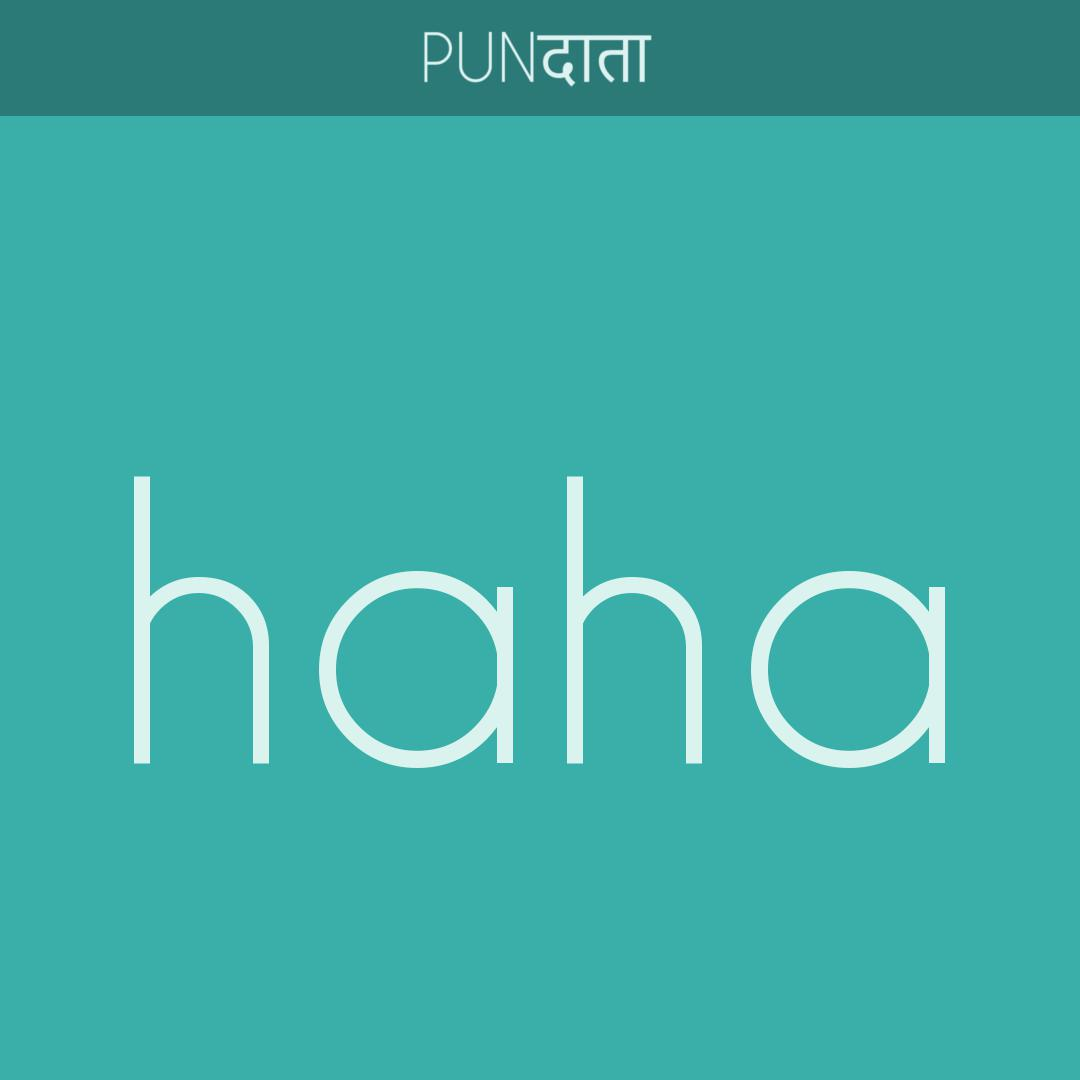
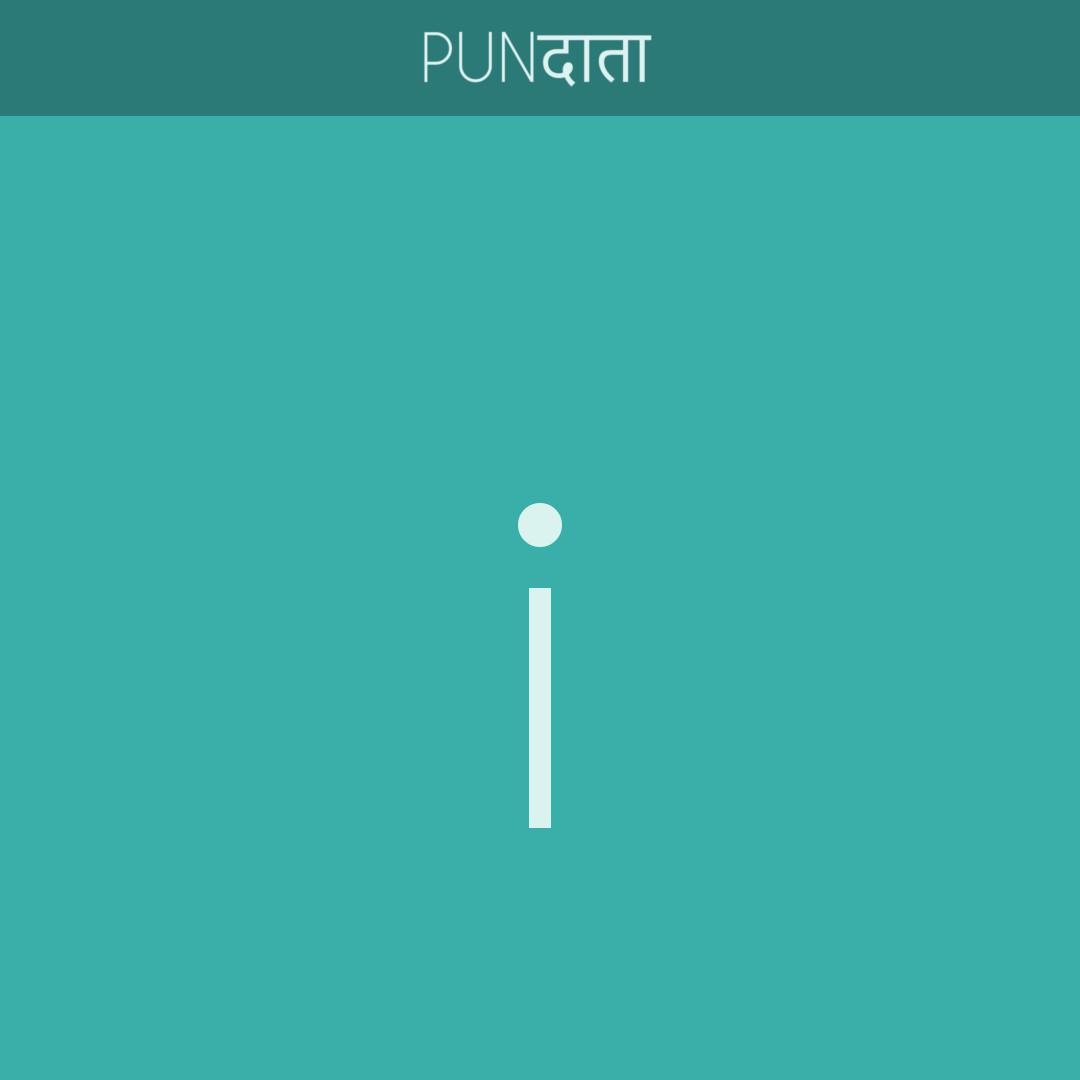
fixed edgecase for very small strings

Changed region(s): [[0.2139, 0.4278, 0.8861, 0.7639], [0.1222, 0.4278, 0.2139, 0.7028]]

diff --git a/rewrite.py b/rewrite.py
@@ -22,7 +22,7 @@ beautiful_text = dedent(beautiful_text)
 ####################################################################################################
 
 #Increase the font size till the text is just a little too wide
-while selected_font.getsize_multiline(beautiful_text)[0] < (0.8 * img.size[0]):
+while fontsize < 500 and selected_font.getsize_multiline(beautiful_text)[0] < (0.8 * img.size[0]):
     fontsize += 2
     selected_font = ImageFont.truetype("src/CaviarDreams.ttf", size = fontsize)
 
